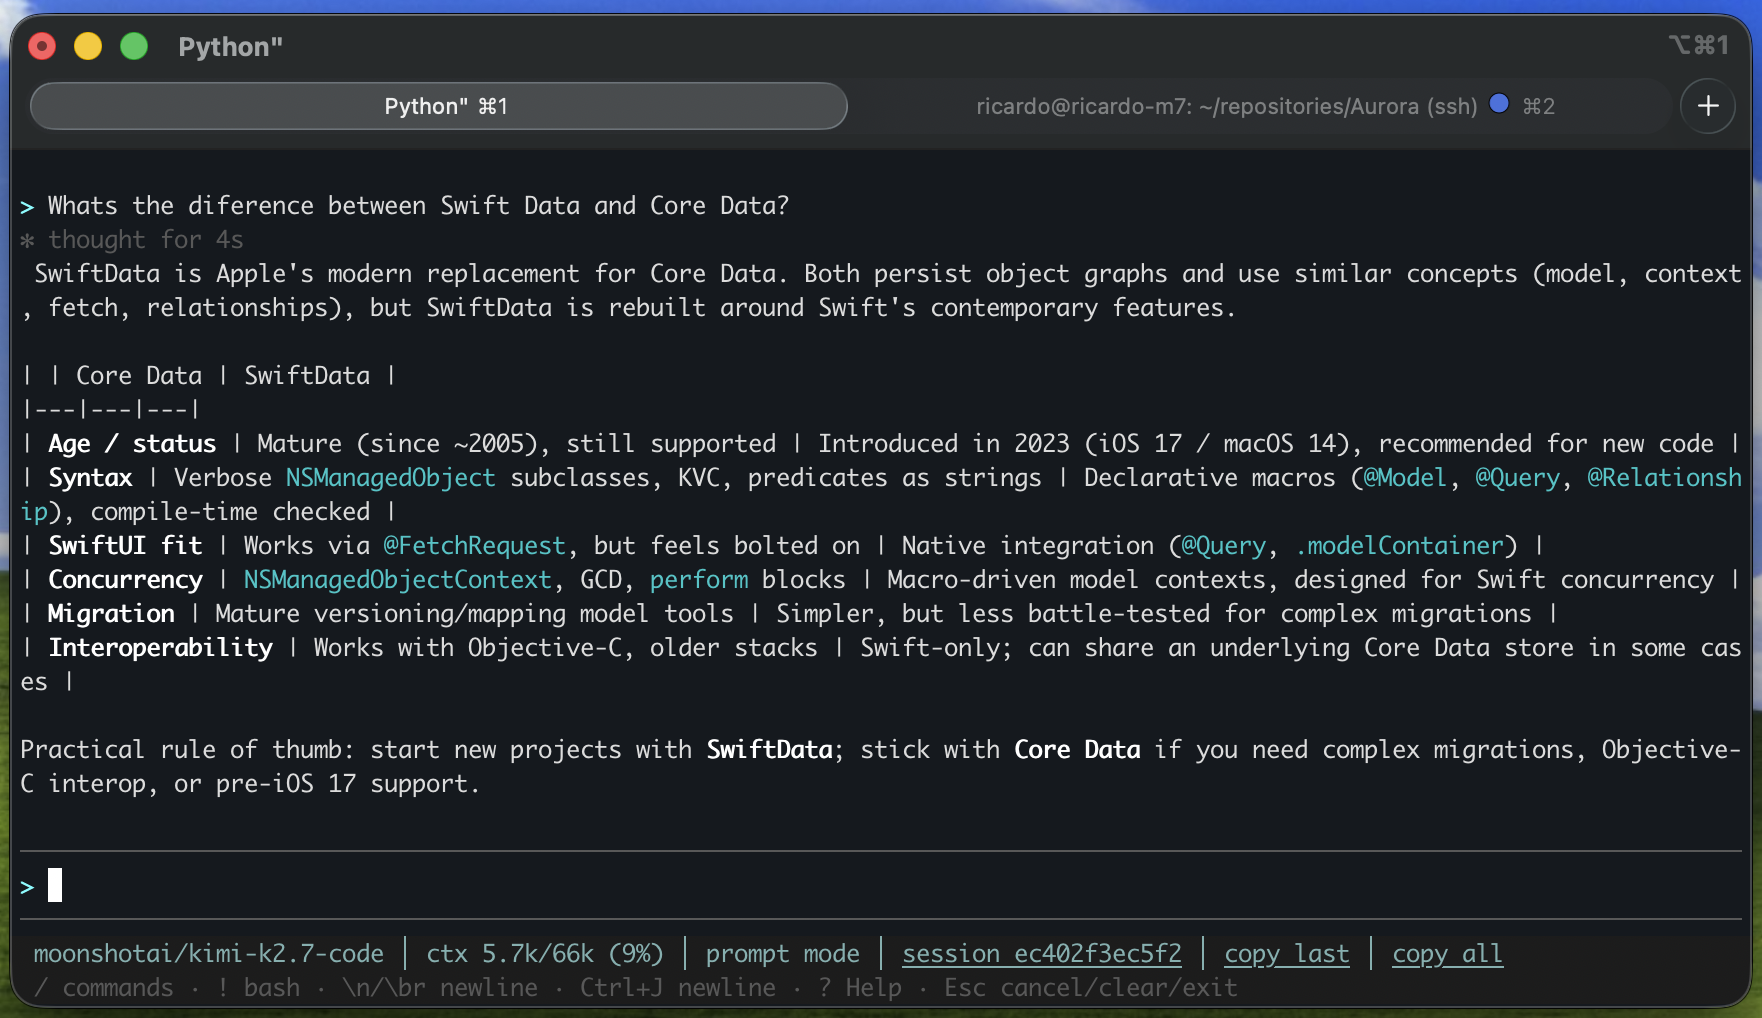
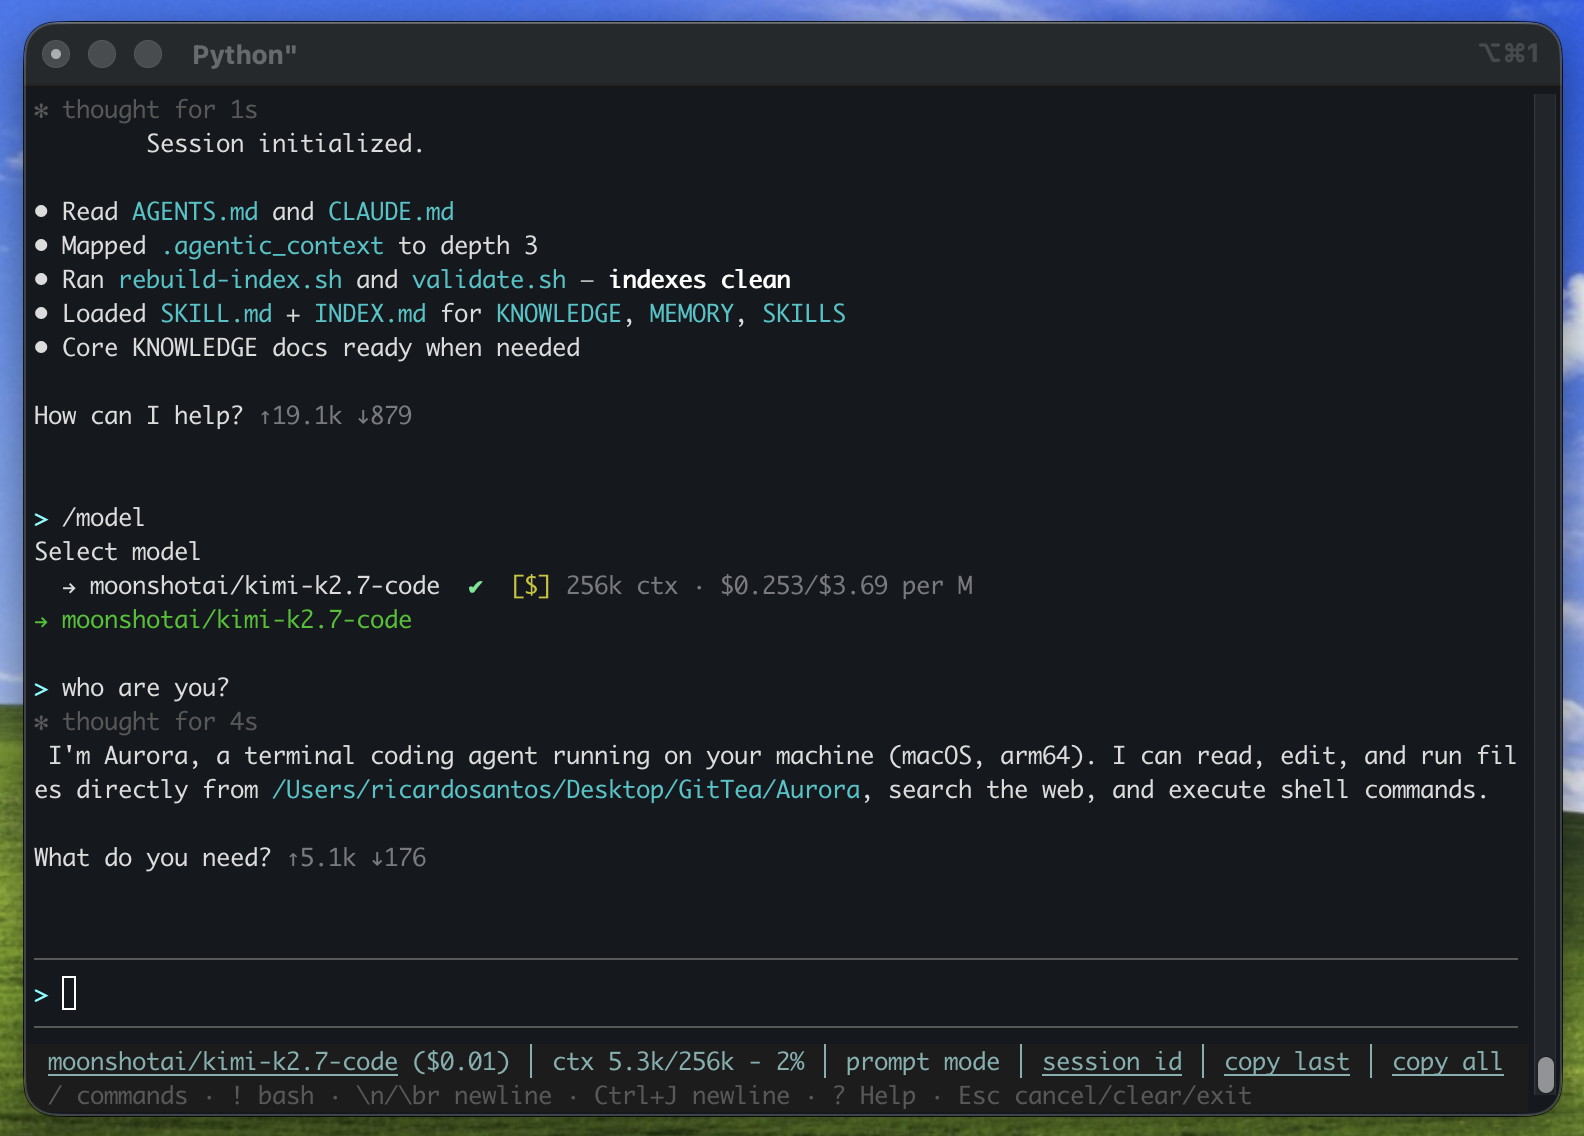
Version 1.0.141
Version 1.0.141

Changed region(s): [[0.0, 0.0, 1.0, 1.0], [0.5568, 0.0914, 0.8971, 0.1218]]

diff --git a/aurora/__init__.py b/aurora/__init__.py
@@ -10,7 +10,7 @@ from pathlib import Path as _Path
 # github-deploy.sh overwrites this exact line on every deploy to GitHub, so
 # it always reflects GitTea's version at deploy time. Left empty here in
 # GitTea itself — empty means "compute live from git" below.
-_PINNED_VERSION = "1.0.139"
+_PINNED_VERSION = "1.0.141"
 
 
 def _commit_count() -> str:

diff --git a/bootstrap.example.md b/bootstrap.example.md
@@ -1,0 +1,15 @@
+Before anything else, orient yourself in this project:
+
+1. Run `pwd` and list the repo root. Read README.md (or the closest
+   equivalent) and any rules file you find — AGENTS.md, CLAUDE.md,
+   CONTRIBUTING.md. Follow those rules for the whole session.
+2. If a `.agentic_context/` folder exists, bootstrap it: read its AGENTS.md
+   and the three INDEX.md files, load every [CORE] KNOWLEDGE doc, and follow
+   the per-task memory protocol they define.
+3. Check the working state: current git branch, uncommitted changes, and the
+   last 5 commits — know what was in flight before touching anything.
+4. Reply with a short brief: what this project is, the stack, the working
+   state, the rules you'll follow — and one question if anything critical is
+   unclear. Then wait for my task.
+
+Read-only until then: change no file during bootstrap.

diff --git a/AURORA.md b/AURORA.md
@@ -1323,6 +1323,19 @@ check these first after upgrading llama.cpp / LlamaDesk / prompt_toolkit:
   probe (bounded, 120s-cached, and now harmless to in-flight requests per
   R82a); `Session.log`'s open-per-event writes (single-writer by design).
 
+### Shipped bootstrap prompt + boot hero image (2026-07-16, R83)
+- **R83. The repo ships a recommended start prompt,
+  `bootstrap.example.md`** — orient in the project before touching
+  anything: read README + rules files (AGENTS.md/CLAUDE.md/CONTRIBUTING.md),
+  bootstrap `.agentic_context/` when present, check the git state (branch/
+  dirty files/last commits), reply with a short brief and wait; read-only
+  until then. Installed with `/bootstrap set bootstrap.example.md`
+  (optionally `project`). Documented in README ("Start every session
+  oriented"). The hero image (`images/aurora.png`, used by both the README
+  and ricardopsantos.org/aurora) now shows Aurora at boot offering to run
+  this prompt — banner, bootstrap ask menu, collapsed input, two-line
+  status bar, rendered in the TUI's real colors/layout.
+
 ### Defaults
 - Aurora **starts on whichever model is first in `config.yaml`'s
   `models:` list** — no longer necessarily the free local one; the user's

diff --git a/README.md b/README.md
@@ -12,7 +12,18 @@ the quick start.
 > use every day. Named after my beautiful two-year-old daughter Aurora,
 > always with her hair bow.
 
-![Aurora running in a terminal](images/aurora.png)
+![Aurora after boot: the bootstrap brief (rules read, context indexes clean), live token counts, and the /model picker](images/aurora.png)
+
+**Start every session oriented.** Save a bootstrap prompt once and Aurora
+offers to run it at every boot — the repo ships a good default
+([`bootstrap.example.md`](bootstrap.example.md)): read the README and rules
+files, bootstrap `.agentic_context/` if present, check the git state, and
+report a short brief before touching anything.
+
+```
+/bootstrap set bootstrap.example.md            # global default
+/bootstrap set bootstrap.example.md project    # just this project (.aurora/bootstrap.md)
+```
 
 ## Why Aurora exists
 

diff --git a/CHANGELOG.md b/CHANGELOG.md
@@ -18,6 +18,10 @@ numbered requirements record, see `AURORA.md`.
 - `/model remove <url-or-name>` (R81): drop a configured model (any
   provider) from config.yaml; removing the current one falls back to the
   first remaining model with a usable key.
+- `bootstrap.example.md` (R83): a recommended start prompt that orients
+  Aurora in the project at boot — install with
+  `/bootstrap set bootstrap.example.md`. The README/site hero image now
+  shows it.
 - Full-screen TUI status bar now shows live input/output token counts during
   a turn and a final token tag after the response.
 - TUI now persists full tracebacks of uncaught event-loop exceptions to